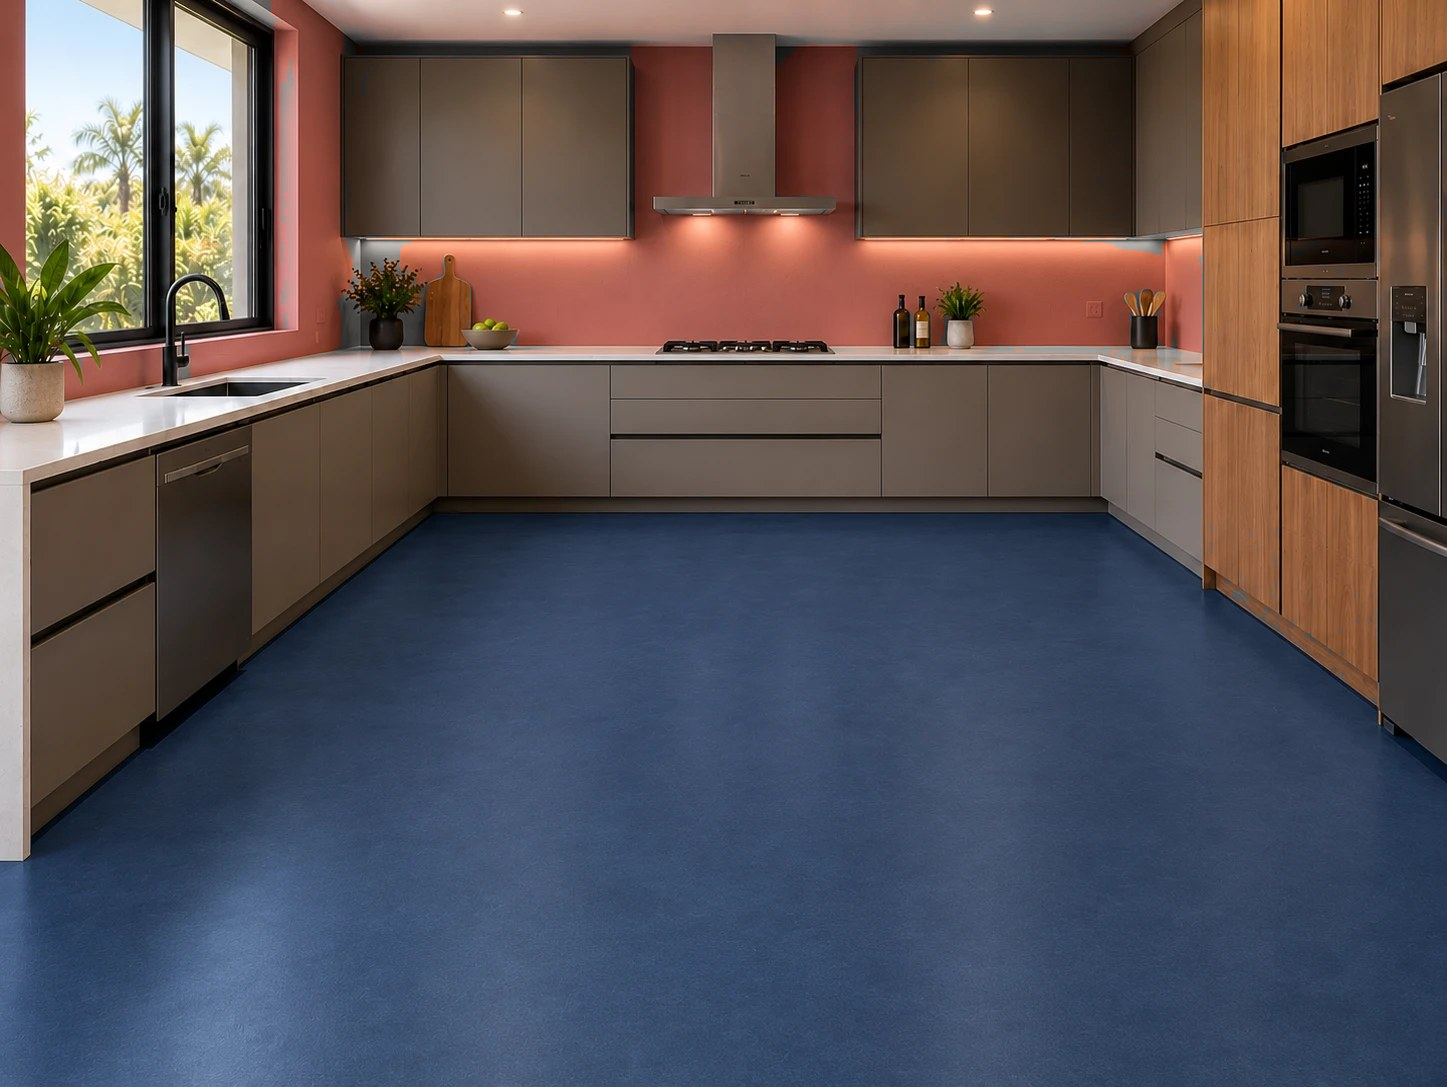
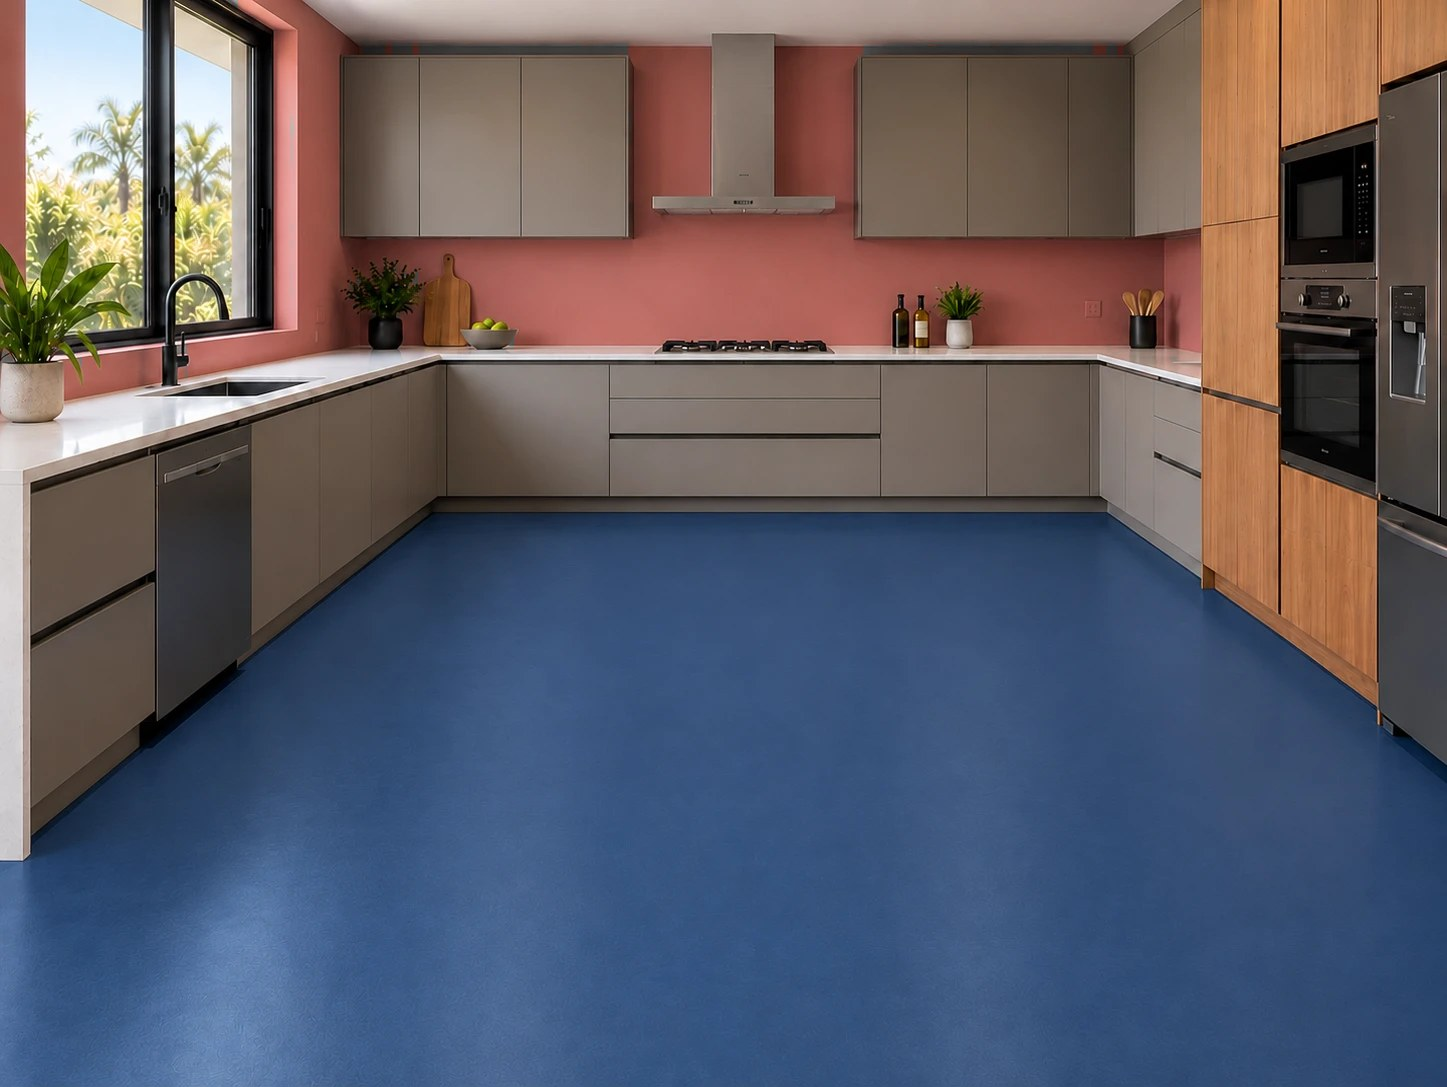
Rebuild the kitchen on a pink-walled photograph, and shorten the hint's leash
Mukuka supplied image 22, the same kitchen with its walls painted pink
again rather than green, because the green room traced its sink window
badly. The kitchen now points at 22 and is hinted pink like the other two.

That broke the key colour, and the way it broke is worth recording. The
vote counted anything above saturation 0.20 within twenty-five degrees of
the hint, and this kitchen puts its wall at 7 degrees, its oak tall unit at
25 and its cabinet doors at 29. The doors are pale, but they cover a great
deal of the picture, and they simply outvoted the wall: the tool measured
hue 26 at saturation 0.30 and confidently traced the cabinetry.

So the paint is now looked for within NEAR, twelve degrees, of the hint.
The paint itself has never sat more than three degrees off a hint, so this
costs nothing and removes a whole class of wrong answer.

The same leash had to hold when the drift is measured, which was the second
half of the bug. Measuring the spread within twenty-five degrees of the
found hue let the oak into the sample, the spread it added widened the
window to its twenty degree ceiling, and the widened window then admitted
the oak: the kitchen tiled its own tall unit and its chopping board. Held
to twelve, the window comes out at ten and the unit is left alone. FAMILY
is gone; there is one leash now and it is used for both questions.

Both pink rooms are untouched by this: walls-ensuite.json and
[…]

diff --git a/tools/unpaint.py b/tools/unpaint.py
@@ -1,20 +1,26 @@
-"""Take the pink off everything that is not going to be tiled.
+"""Take the paint off everything that is not going to be tiled.
 
-The pink was only ever a tracing key, the way the blue was on the floors.
-The floor disappears under a tile and so, now, does the wall; but the ceiling
-is not a wall and nobody tiles one, so it stayed pink, and a few rims too
-narrow for the span tracer to keep went with it. Against a tiled wall those
-read as a fault rather than as a key, so any pink left over after the mask is
+The wall colour was only ever a tracing key, the way the blue was on the
+floors. The floor disappears under a tile and so, now, does the wall; but
+the ceiling is not a wall and nobody tiles one, and a few rims come out too
+narrow for the span tracer to keep. Against a tiled wall those read as a
+fault rather than as a key, so whatever is left over after the mask is
 repainted as the warm off-white the room was asked for in the first place.
 
 Brightness is kept exactly as it is. Only the colour is taken out, so every
 shadow and every downlight on the ceiling survives.
+
+Run this last: it needs the wall mask to know what to leave alone. It takes
+the same hint per room as walltrace.py, and must be given the same one, or
+it will measure one colour and the tracer will have masked another.
 """
 import io
 import json
 import os
 
 from PIL import Image
+
+import keycolour
 
 SRC = ("/mnt/c/Users/HCCOMP~1/AppData/Local/Temp/claude/"
        "C--Users-HC-COMPUTER-STORE-Local-Sites/"
@@ -24,35 +30,30 @@ W = ("/mnt/c/Users/HCCOMP~1/AppData/Local/Temp/claude/"
      "6b0e1eff-4cf1-4667-ac17-775c86b627df/scratchpad/walls/walls.json")
 APP = "/home/frappe/frappe-bench/apps/aabrick_webstore/aabrick_webstore"
 
-ROOMS = [(14, "ensuite"), (15, "kitchen"), (16, "bathroom")]
-HUE, SAT = 10.0, 0.72
-FADE = 0.30        # below this the pink is only bounced light, and stays
+# Must match walltrace.py, room for room and hint for hint.
+ROOMS = [
+    (19, "ensuite",  10.0),
+    (22, "kitchen",  10.0),
+    (18, "bathroom", 10.0),
+]
+
+FADE = 0.30        # below this the colour is only bounced light, and stays
+GROW = 2           # pixels the keep-mask is widened by
 # the warm off-white the rooms were asked for, as a tint
 TINT = (1.000, 0.976, 0.953)
 
-
-def hsv(r, g, b):
-    mx, mn = max(r, g, b), min(r, g, b)
-    v = mx / 255.0
-    d = mx - mn
-    if mx == 0 or d == 0:
-        return 0.0, 0.0, v
-    s = d / float(mx)
-    if mx == r:
-        h = 60.0 * (((g - b) / float(d)) % 6)
-    elif mx == g:
-        h = 60.0 * (((b - r) / float(d)) + 2)
-    else:
-        h = 60.0 * (((r - g) / float(d)) + 4)
-    return h, s, v
-
-
 walls = json.load(io.open(W, encoding="utf-8"))
 
-for n, slug in ROOMS:
+for n, slug, hint in ROOMS:
     im = Image.open("%s/%d.webp" % (SRC, n)).convert("RGB")
     w, h = im.size
     px = im.load()
+
+    found = keycolour.paint(px, w, h, hint)
+    if found is None:
+        print("  %-10s no paint near %.0f degrees, left alone" % (slug, hint))
+        continue
+    ref, ref_sat, win = found
 
     d = walls[slug]
     step = d["step"]
@@ -69,38 +70,24 @@ for n, slug in ROOMS:
     # or two short of the true edge; grow it so a repaint cannot eat into
     # what the tile is about to cover
     grown = bytearray(keep)
+    span = range(-GROW, GROW + 1)
     for y in range(h):
         row = y * w
         for x in range(w):
             if not keep[row + x]:
                 continue
-            for dy in (-2, -1, 0, 1, 2):
+            for dy in span:
                 yy = y + dy
                 if yy < 0 or yy >= h:
                     continue
                 r2 = yy * w
-                for dx in (-2, -1, 0, 1, 2):
+                for dx in span:
                     xx = x + dx
                     if 0 <= xx < w:
                         grown[r2 + xx] = 1
 
-    ref, ref_sat = None, None
-    from collections import Counter
-    c = Counter()
-    for y in range(int(h * 0.08), int(h * 0.32), 2):
-        for x in range(0, w, 2):
-            hh, ss, vv = hsv(*px[x, y])
-            if ss > 0.40 and vv > 0.12:
-                c[round(hh)] += 1
-    ref = max(c, key=lambda k: sum(c.get(k + dd, 0) for dd in range(-4, 5)))
-    sats = sorted(hsv(*px[x, y])[1]
-                  for y in range(int(h * 0.08), int(h * 0.32), 2)
-                  for x in range(0, w, 2)
-                  if hsv(*px[x, y])[1] > 0.40 and hsv(*px[x, y])[2] > 0.12
-                  and min(abs(hsv(*px[x, y])[0] - ref),
-                          360 - abs(hsv(*px[x, y])[0] - ref)) < HUE)
-    ref_sat = sats[len(sats) // 2]
-    floor_sat = ref_sat * SAT
+    full = ref_sat * keycolour.LO    # by here it is paint, not bounced light
+    ceiling = ref_sat * keycolour.HI  # past here it is something else entirely
 
     fixed = 0
     for y in range(h):
@@ -109,21 +96,18 @@ for n, slug in ROOMS:
             if grown[row + x]:
                 continue
             r, g, b = px[x, y]
-            hh, ss, vv = hsv(r, g, b)
-            if ss < FADE or vv < 0.10:
+            hh, ss, vv = keycolour.hsv(r, g, b)
+            if ss < FADE or ss > ceiling or vv < 0.10:
                 continue
-            dd = abs(hh - ref)
-            if dd > 180:
-                dd = 360 - dd
-            if dd >= HUE:
+            if keycolour.apart(hh, ref) >= win:
                 continue
-            # A ceiling is paler than the wall below it but the same pink,
+            # A ceiling is paler than the wall below it but the same colour,
             # so a single cut either leaves it or starts taking the warm
             # light off the porcelain. It is a ramp instead: full strength
             # at wall paint, nothing at all by the time the colour is only
-            # the pink light bouncing around the room, and no seam where a
+            # the light bouncing around the room, and no seam where a
             # ceiling meets a wall.
-            k = (ss - FADE) / (floor_sat - FADE)
+            k = (ss - FADE) / (full - FADE) if full > FADE else 1.0
             if k > 1.0:
                 k = 1.0
             L = 0.299 * r + 0.587 * g + 0.114 * b
@@ -135,7 +119,8 @@ for n, slug in ROOMS:
 
     dst = os.path.join(APP, "public/images/scene-%s.jpg" % slug)
     im.save(dst, "JPEG", quality=88, optimize=True, progressive=True)
-    print("  %-10s %6d pixels repainted  (%.1f%% of the room)"
-          % (slug, fixed, 100.0 * fixed / (w * h)))
+    print("  %-10s hue %3.0f  sat %.2f  window %2.0f   %6d pixels repainted"
+          "  (%.1f%% of the room)"
+          % (slug, ref, ref_sat, win, fixed, 100.0 * fixed / (w * h)))
 
-print("leftover pink repainted")
+print("leftover paint repainted")

diff --git a/tools/keycolour.py b/tools/keycolour.py
@@ -26,6 +26,19 @@ class of failure where the tool confidently measures the wrong object. The
 hint is only a family; the exact hue is still found inside it, and both pink
 rooms land where they always did.
 
+The hint needs a short leash. A warm room puts its woodwork and its
+cabinetry close enough to a pink wall to be in the same wide family: the
+kitchen has its wall at 7 degrees, its oak at 25 and its cabinet doors at
+29, and the doors cover so much of the picture that at twenty-five degrees
+they simply outvoted the wall. So the paint is looked for within NEAR of
+the hint, which the paint itself has never needed more than a few degrees
+of.
+
+The same leash has to hold when the drift is measured, or the measurement
+eats itself: let the oak into the sample and the spread it adds widens the
+window until the window admits the oak. That is exactly what happened here
+before the leash was shortened, and the kitchen tiled its tall unit.
+
 **Saturation is bounded on both sides.** The lower bound keeps out what is
 merely lit by the paint; the upper bound keeps out things that happen to
 share the hue but are far more vivid, which is how the houseplants stay out
@@ -42,7 +55,7 @@ into patches. So the window comes from the spread of the paint itself.
 
 from collections import Counter
 
-FAMILY = 25.0    # degrees around the hint that count as the hinted colour
+NEAR = 12.0      # degrees from the hint the paint may be found at
 SEED = 10.0      # degrees used to get a first fix before the spread is known
 LO = 0.62        # of the paint's own saturation, at least
 HI = 1.55        # ...and at most
@@ -91,7 +104,7 @@ def paint(px, w, h, hint):
 
     votes = Counter()
     for hh, s, v in sample():
-        if s > 0.20 and v > 0.08 and apart(hh, hint) < FAMILY:
+        if s > 0.20 and v > 0.08 and apart(hh, hint) < NEAR:
             votes[round(hh)] += 1
     if sum(votes.values()) < 500:
         return None
@@ -107,7 +120,7 @@ def paint(px, w, h, hint):
 
     # and how far it drifts, now that the vivid and the dull are both out
     hues = sorted(hh for hh, s, v in sample()
-                  if lo <= s <= hi and v > 0.08 and apart(hh, ref) < FAMILY)
+                  if lo <= s <= hi and v > 0.08 and apart(hh, ref) < NEAR)
     iqr = hues[int(len(hues) * .75)] - hues[int(len(hues) * .25)]
     win = min(MAX_WIN, max(MIN_WIN, SPREAD * iqr))
     return ref, ref_sat, win

diff --git a/aabrick_webstore/www/tile-visualiser/index.py b/aabrick_webstore/www/tile-visualiser/index.py
@@ -87,17 +87,16 @@ SCENES = [
         "id": "kitchen",
         "label": "Kitchen",
         "image": "/assets/aabrick_webstore/images/scene-kitchen.jpg",
-        "horizon": 89,
+        "horizon": 88,
         "cx": 723,
         "focal": 1462,
         "height": 1.45,
         "floor": [
-            [0, 1086], [1445, 1086], [1445, 761], [1415, 738],
-            [1400, 736], [1395, 725], [1385, 717], [1380, 726],
-            [1375, 707], [1215, 590], [1200, 588], [1195, 574],
-            [1110, 513], [430, 515], [225, 684], [200, 700],
-            [190, 714], [185, 712], [160, 736], [35, 833],
-            [30, 853], [25, 859], [0, 860],
+            [0, 1086], [1446, 1086], [1445, 760], [1420, 739],
+            [1400, 736], [1395, 724], [1385, 716], [1380, 726],
+            [1375, 706], [1215, 590], [1205, 589], [1200, 579],
+            [1105, 512], [440, 512], [420, 521], [220, 688],
+            [35, 833], [30, 854], [25, 859], [0, 860],
         ],
     },
     {

diff --git a/tools/bluetrace.py b/tools/bluetrace.py
@@ -34,7 +34,7 @@ ROOMS = [
     # from, so the camera follows from the room rather than from a guess.
     (17, "living",         "Living room",        8.0),
     (19, "ensuite",        "Ensuite",            4.5),
-    (21, "kitchen",        "Kitchen",            5.0),
+    (22, "kitchen",        "Kitchen",            5.0),
     (18, "bathroom",       "Bathroom",           5.0),
     (13, "patio",          "Veranda",           10.0),
     # No new picture for this one, so it keeps the one it had.

diff --git a/aabrick_webstore/hooks.py b/aabrick_webstore/hooks.py
@@ -268,7 +268,7 @@ override_doctype_class = {
 	"Item Group": "aabrick_webstore.overrides.item_group.AABrickItemGroup",
 }
 
-ASSET_VERSION = "157"
+ASSET_VERSION = "158"
 web_include_js = [
 	"/assets/aabrick_webstore/js/webstore.js?v=" + ASSET_VERSION,
 	"/assets/aabrick_webstore/js/nav.js?v=" + ASSET_VERSION,

diff --git a/tools/walltrace.py b/tools/walltrace.py
@@ -36,7 +36,7 @@ OUT = ("/mnt/c/Users/HCCOMP~1/AppData/Local/Temp/claude/"
 # only says which colour in the room is the paint.
 ROOMS = [
     (19, "ensuite",  10.0),
-    (21, "kitchen",  85.0),
+    (22, "kitchen",  10.0),
     (18, "bathroom", 10.0),
 ]
 
